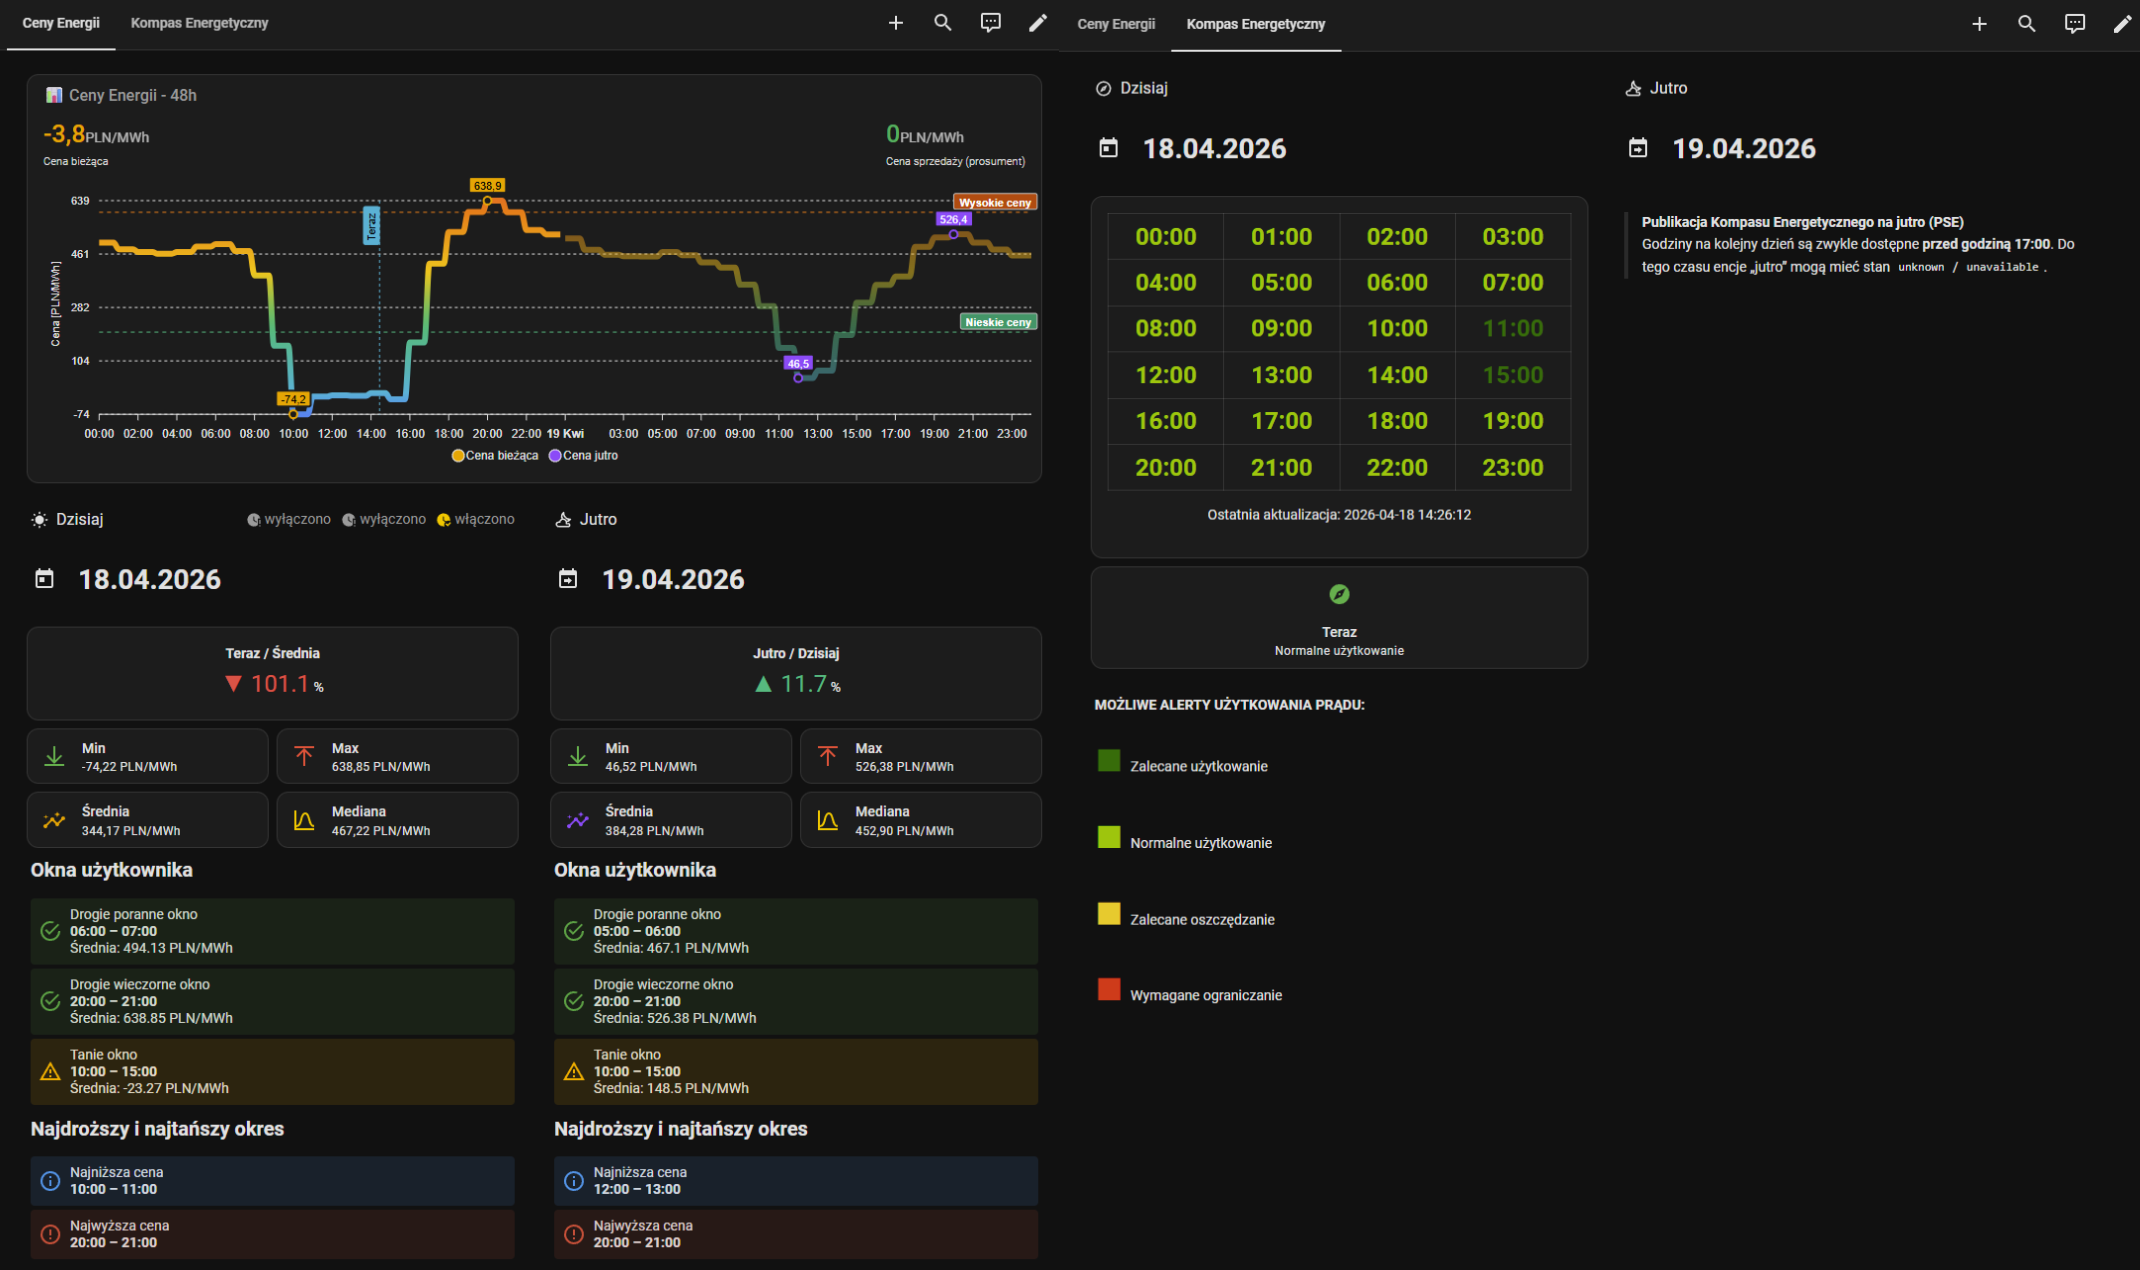
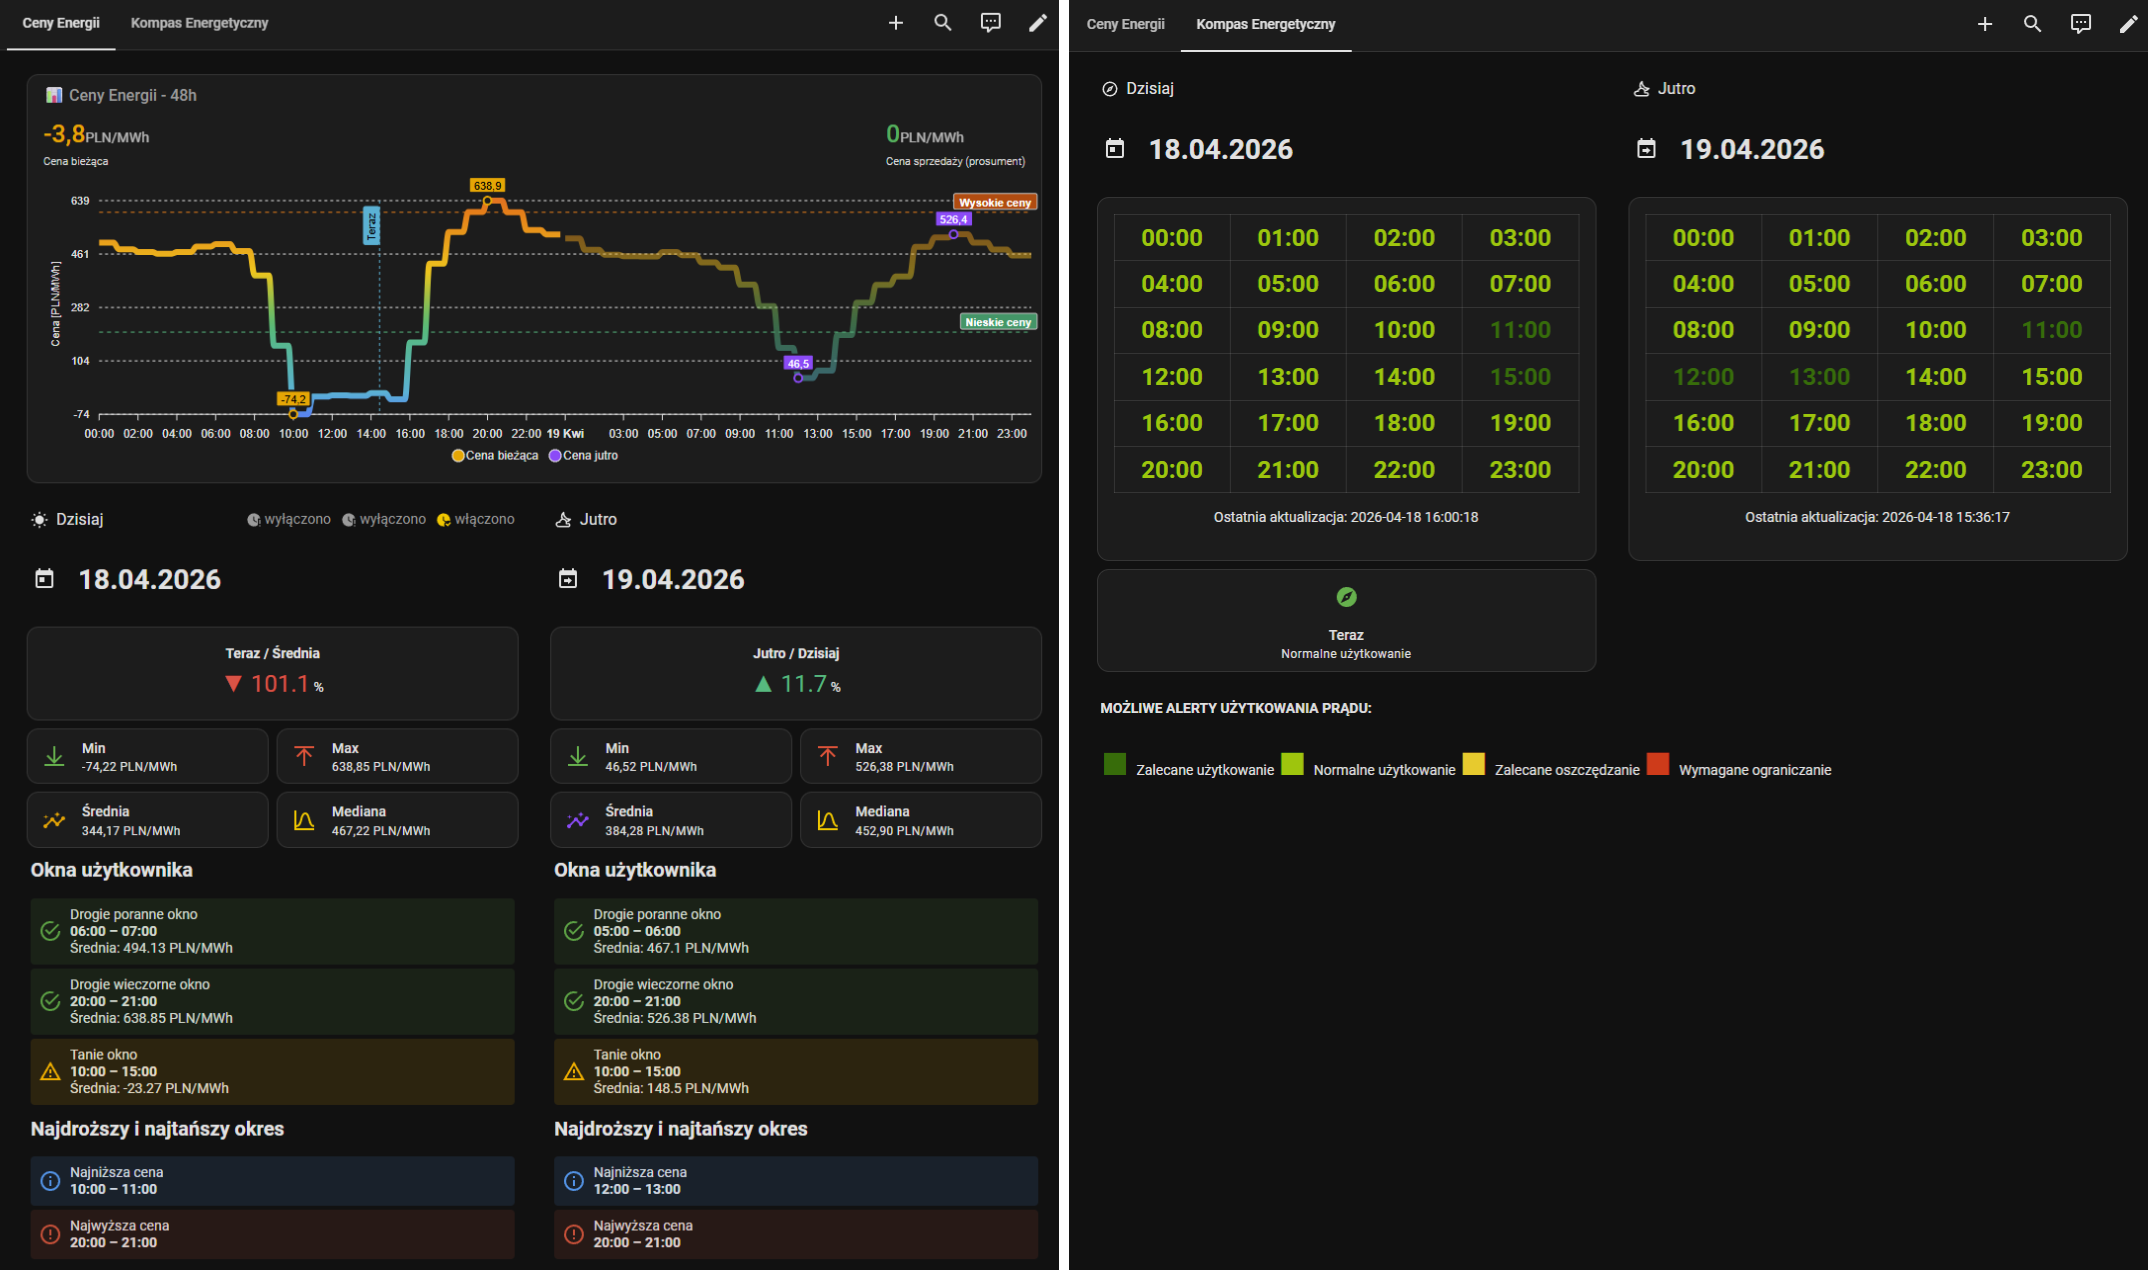
feat: compass legend (#79)
* feat: compass legend

* update license badge

* Update LICENSE

* Add license

diff --git a/README.md b/README.md
@@ -4,7 +4,7 @@
 ![GitHub Release](https://img.shields.io/github/v/release/lewa-reka/ha-rce-pse?style=for-the-badge)
 ![GitHub Actions Workflow Status](https://img.shields.io/github/actions/workflow/status/lewa-reka/ha-rce-pse/tests.yml?style=for-the-badge)
 [![hacs_downloads](https://img.shields.io/github/downloads/lewa-reka/ha-rce-pse/latest/total?style=for-the-badge)](https://github.com/lewa-reka/ha-rce-pse/releases/latest)
-[![License: AGPL-3.0-or-later](https://img.shields.io/badge/License-AGPL--3.0--or--later-blue?style=for-the-badge)](https://spdx.org/licenses/AGPL-3.0-or-later.html)
+[![GitHub License](https://img.shields.io/github/license/lewa-reka/ha-rce-pse?style=for-the-badge)](https://spdx.org/licenses/AGPL-3.0-or-later.html)
 ![GitHub commit activity](https://img.shields.io/github/commit-activity/y/lewa-reka/ha-rce-pse?style=for-the-badge)
 ![Maintenance](https://img.shields.io/maintenance/yes/2222?style=for-the-badge)
 
@@ -271,7 +271,25 @@ Wpis konfiguracyjny migruje się automatycznie (okna z wartości godzinowych na 
 
 ## Licencja
 
-Projekt na licencji [GNU Affero General Public License w wersji 3 lub nowszej](https://spdx.org/licenses/AGPL-3.0-or-later.html) (SPDX: `AGPL-3.0-or-later`) — pełny tekst w pliku [LICENSE](LICENSE). To **zmiana** licencji w v2.0.0 (wcześniej Apache 2.0).
+Projekt na licencji [GNU Affero General Public License v3.0 or later](https://spdx.org/licenses/AGPL-3.0-or-later.html) (SPDX: `AGPL-3.0-or-later`) — pełny tekst w pliku [LICENSE](LICENSE). To **zmiana** licencji w v2.0.0 (wcześniej Apache 2.0).
+
+```
+RCE PSE Home Assistant integration
+Copyright (C) 2025 Lewa-Reka and RCE PSE Integration Contributors
+
+This program is free software: you can redistribute it and/or modify
+it under the terms of the GNU Affero General Public License as published by
+the Free Software Foundation, either version 3 of the License, or
+(at your option) any later version.
+
+This program is distributed in the hope that it will be useful,
+but WITHOUT ANY WARRANTY; without even the implied warranty of
+MERCHANTABILITY or FITNESS FOR A PARTICULAR PURPOSE.  See the
+GNU Affero General Public License for more details.
+
+You should have received a copy of the GNU Affero General Public License
+along with this program.  If not, see <https://www.gnu.org/licenses/>.
+```
 
 ## Współpraca
 
